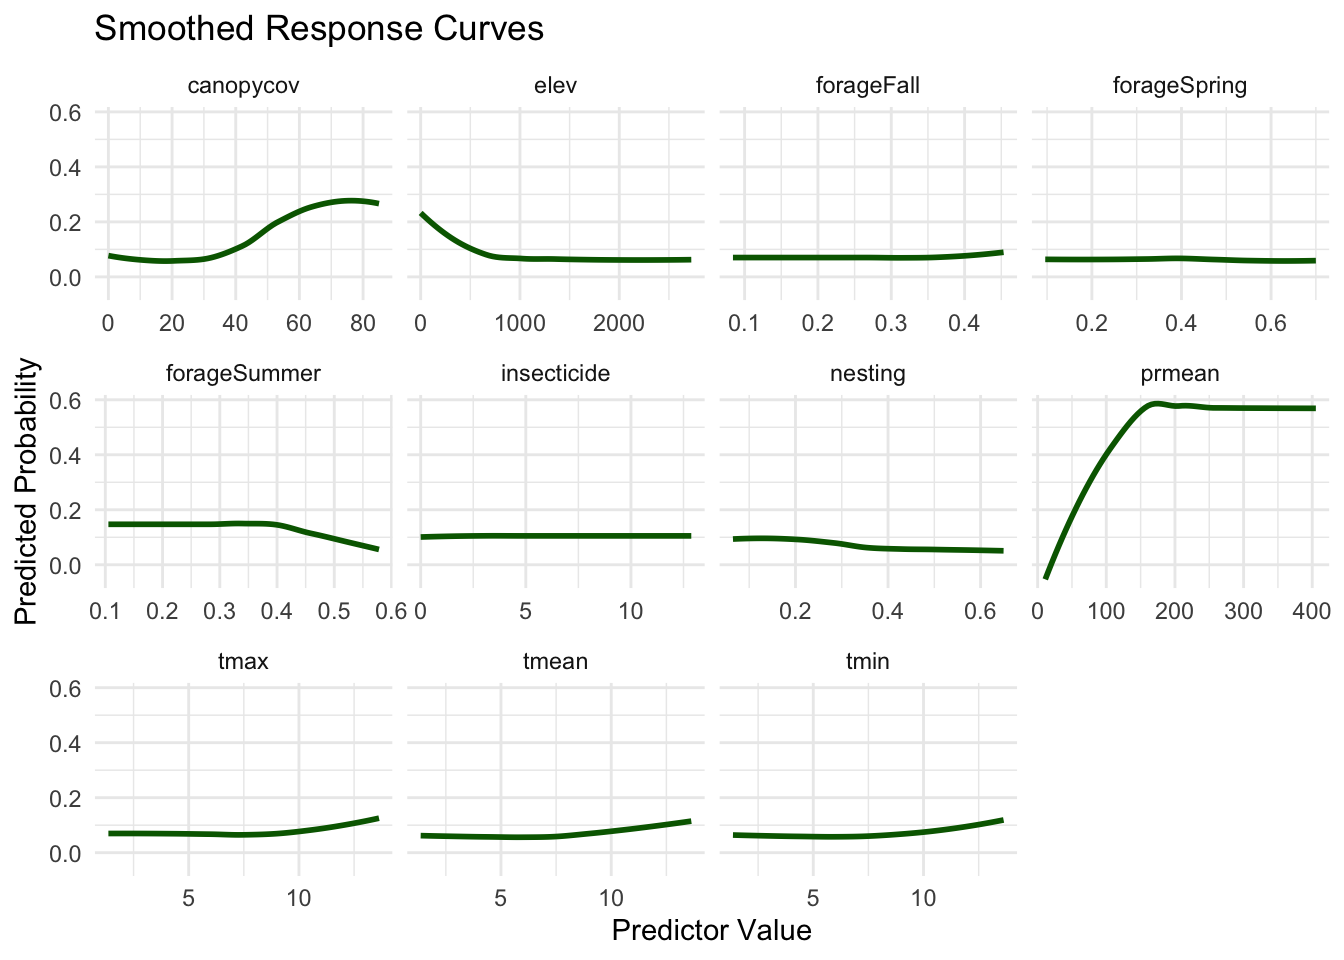
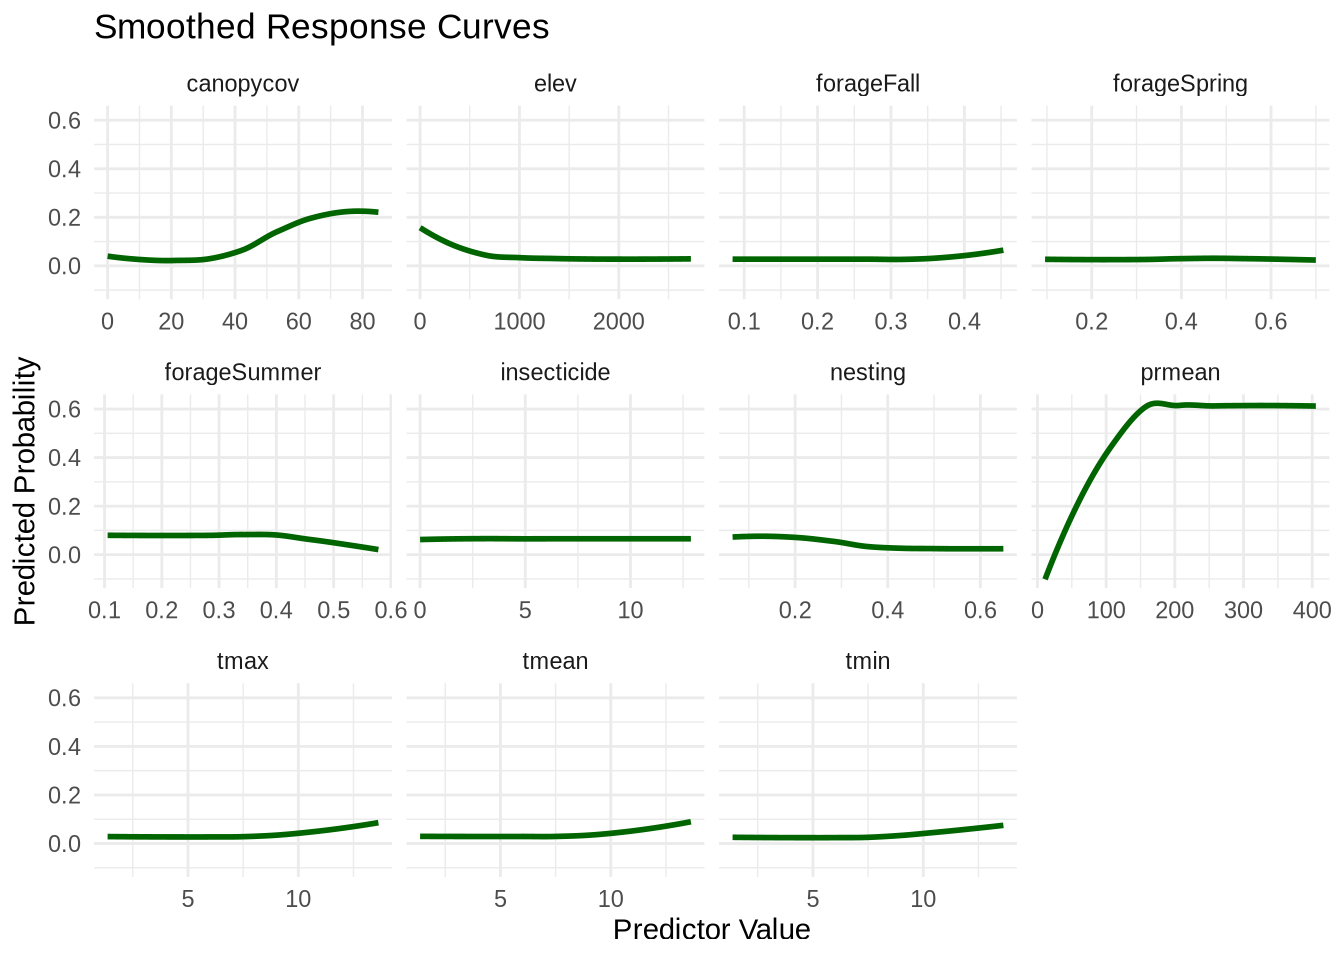
Add warning about downsampling

diff --git a/docs/04_modelFit.html b/docs/04_modelFit.html
@@ -74,7 +74,7 @@ pre > code.sourceCode > span > a:first-child::before { text-decoration: underlin
 <link href="site_libs/quarto-html/quarto-syntax-highlighting-37eea08aefeeee20ff55810ff984fec1.css" rel="stylesheet" id="quarto-text-highlighting-styles">
 <script src="site_libs/bootstrap/bootstrap.min.js"></script>
 <link href="site_libs/bootstrap/bootstrap-icons.css" rel="stylesheet">
-<link href="site_libs/bootstrap/bootstrap-b2c493fdd487b110f6b1348dfd6a5174.min.css" rel="stylesheet" append-hash="true" id="quarto-bootstrap" data-mode="light">
+<link href="site_libs/bootstrap/bootstrap-d07e4899fb10a1c5c27d7543a37cc619.min.css" rel="stylesheet" append-hash="true" id="quarto-bootstrap" data-mode="light">
 <script id="quarto-search-options" type="application/json">{
   "location": "sidebar",
   "copy-button": false,
@@ -302,6 +302,19 @@ pre > code.sourceCode > span > a:first-child::before { text-decoration: underlin
 <span id="cb3-8"><a href="#cb3-8" aria-hidden="true" tabindex="-1"></a>  <span class="fu">step_downsample</span>(presence) <span class="sc">%&gt;%</span> <span class="co">#removes rows of a dataset to make factor levels equal  </span></span>
 <span id="cb3-9"><a href="#cb3-9" aria-hidden="true" tabindex="-1"></a>  <span class="fu">step_normalize</span>(<span class="fu">all_predictors</span>())  <span class="co"># Normalize predictors (optional for RF)</span></span></code><button title="Copy to Clipboard" class="code-copy-button"><i class="bi"></i></button></pre></div>
 </div>
+<div class="callout callout-style-default callout-caution callout-titled">
+<div class="callout-header d-flex align-content-center">
+<div class="callout-icon-container">
+<i class="callout-icon"></i>
+</div>
+<div class="callout-title-container flex-fill">
+Downsampling
+</div>
+</div>
+<div class="callout-body-container callout-body">
+<p>The model we built here is a bit of an oversimplification for the purposes of this demonstration. If you were to use a random forest for distribution modeling, you would not want to use <code>step_downsample()</code>. Instead you could consider using a true balanced random forest (also sometimes called a “down-sampled random forest”) to address class imbalance. In this code <code>step_downsample()</code> randomly selects a number of background points equal to the number of presence points and this same set of points is used across all trees. In a true balanced random forest a subset of points is randomly selected within each tree. You can learn more about this approach <a href="https://doi.org/10.1111/ecog.05615">here</a>.</p>
+</div>
+</div>
 </section>
 <section id="model-specification" class="level1">
 <h1>4. Model specification</h1>
@@ -393,7 +406,7 @@ pre > code.sourceCode > span > a:first-child::before { text-decoration: underlin
 </div>
 <div class="sourceCode cell-code" id="cb8"><pre class="sourceCode r code-with-copy"><code class="sourceCode r"><span id="cb8-1"><a href="#cb8-1" aria-hidden="true" tabindex="-1"></a><span class="fu">cat</span>(<span class="st">"AUC:"</span>, <span class="fu">round</span>(<span class="fu">auc</span>(roc_obj), <span class="dv">3</span>), <span class="st">"</span><span class="sc">\n</span><span class="st">"</span>)</span></code><button title="Copy to Clipboard" class="code-copy-button"><i class="bi"></i></button></pre></div>
 <div class="cell-output cell-output-stdout">
-<pre><code>AUC: 0.884 </code></pre>
+<pre><code>AUC: 0.872 </code></pre>
 </div>
 </div>
 </section>
@@ -437,7 +450,7 @@ pre > code.sourceCode > span > a:first-child::before { text-decoration: underlin
 <span id="cb11-6"><a href="#cb11-6" aria-hidden="true" tabindex="-1"></a><span class="co">#writeRaster(sdm_rast, "data/sdm_rast.tif")</span></span></code><button title="Copy to Clipboard" class="code-copy-button"><i class="bi"></i></button></pre></div>
 </div>
 <div class="callout callout-style-default callout-caution no-icon callout-titled">
-<div class="callout-header d-flex align-content-center" data-bs-toggle="collapse" data-bs-target=".callout-1-contents" aria-controls="callout-1" aria-expanded="false" aria-label="Toggle callout">
+<div class="callout-header d-flex align-content-center" data-bs-toggle="collapse" data-bs-target=".callout-2-contents" aria-controls="callout-2" aria-expanded="false" aria-label="Toggle callout">
 <div class="callout-icon-container">
 <i class="callout-icon no-icon"></i>
 </div>
@@ -446,7 +459,7 @@ Extra: Challenges of unbalanced classifications in RF models
 </div>
 <div class="callout-btn-toggle d-inline-block border-0 py-1 ps-1 pe-0 float-end"><i class="callout-toggle"></i></div>
 </div>
-<div id="callout-1" class="callout-1-contents callout-collapse collapse">
+<div id="callout-2" class="callout-2-contents callout-collapse collapse">
 <div class="callout-body-container callout-body">
 <p>In case you’re interested, here is the output of a model that doesn’t downsample background points to match the number of presence points. Note the model will take much longer to run because there are far more data points (~10,000 more background points) that the model is being fit to. How do the results differ?</p>
 <div class="cell">
@@ -558,7 +571,7 @@ Extra: Challenges of unbalanced classifications in RF models
 </div>
 <div class="sourceCode cell-code" id="cb14"><pre class="sourceCode r code-with-copy"><code class="sourceCode r"><span id="cb14-1"><a href="#cb14-1" aria-hidden="true" tabindex="-1"></a><span class="fu">cat</span>(<span class="st">"Continuous Boyce Index: "</span>, <span class="fu">round</span>(boyce_result<span class="sc">$</span>cor, <span class="dv">3</span>), <span class="st">"</span><span class="sc">\n</span><span class="st">"</span>)</span></code><button title="Copy to Clipboard" class="code-copy-button"><i class="bi"></i></button></pre></div>
 <div class="cell-output cell-output-stdout">
-<pre><code>Continuous Boyce Index:  0.825 </code></pre>
+<pre><code>Continuous Boyce Index:  0.705 </code></pre>
 </div>
 </div>
 </section>
